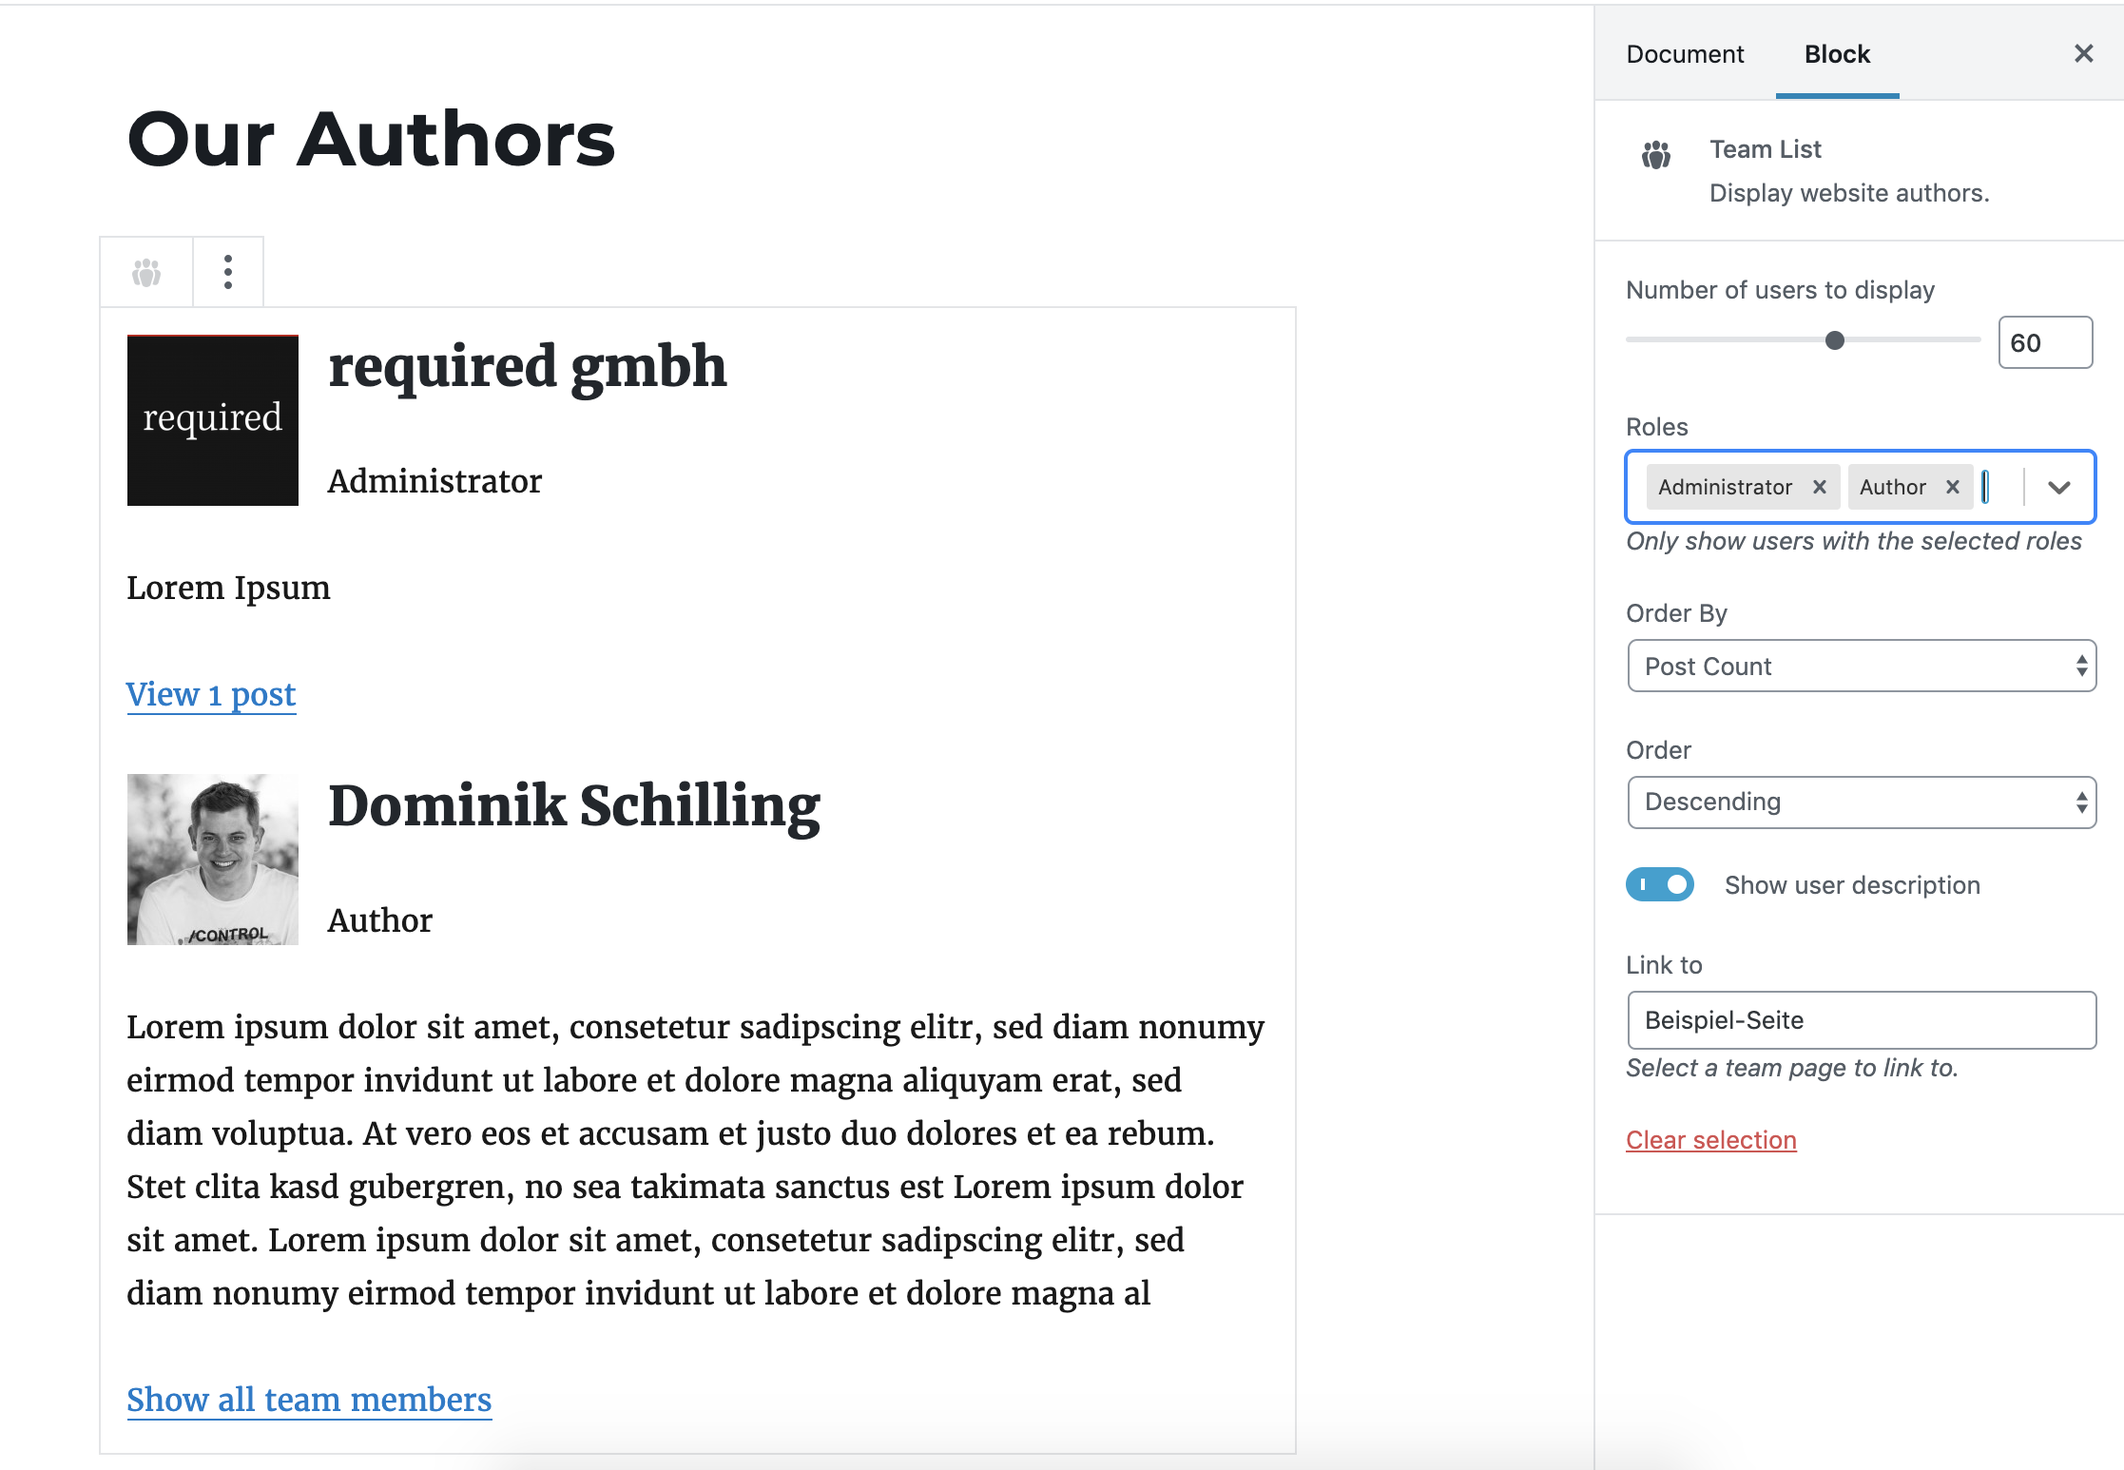
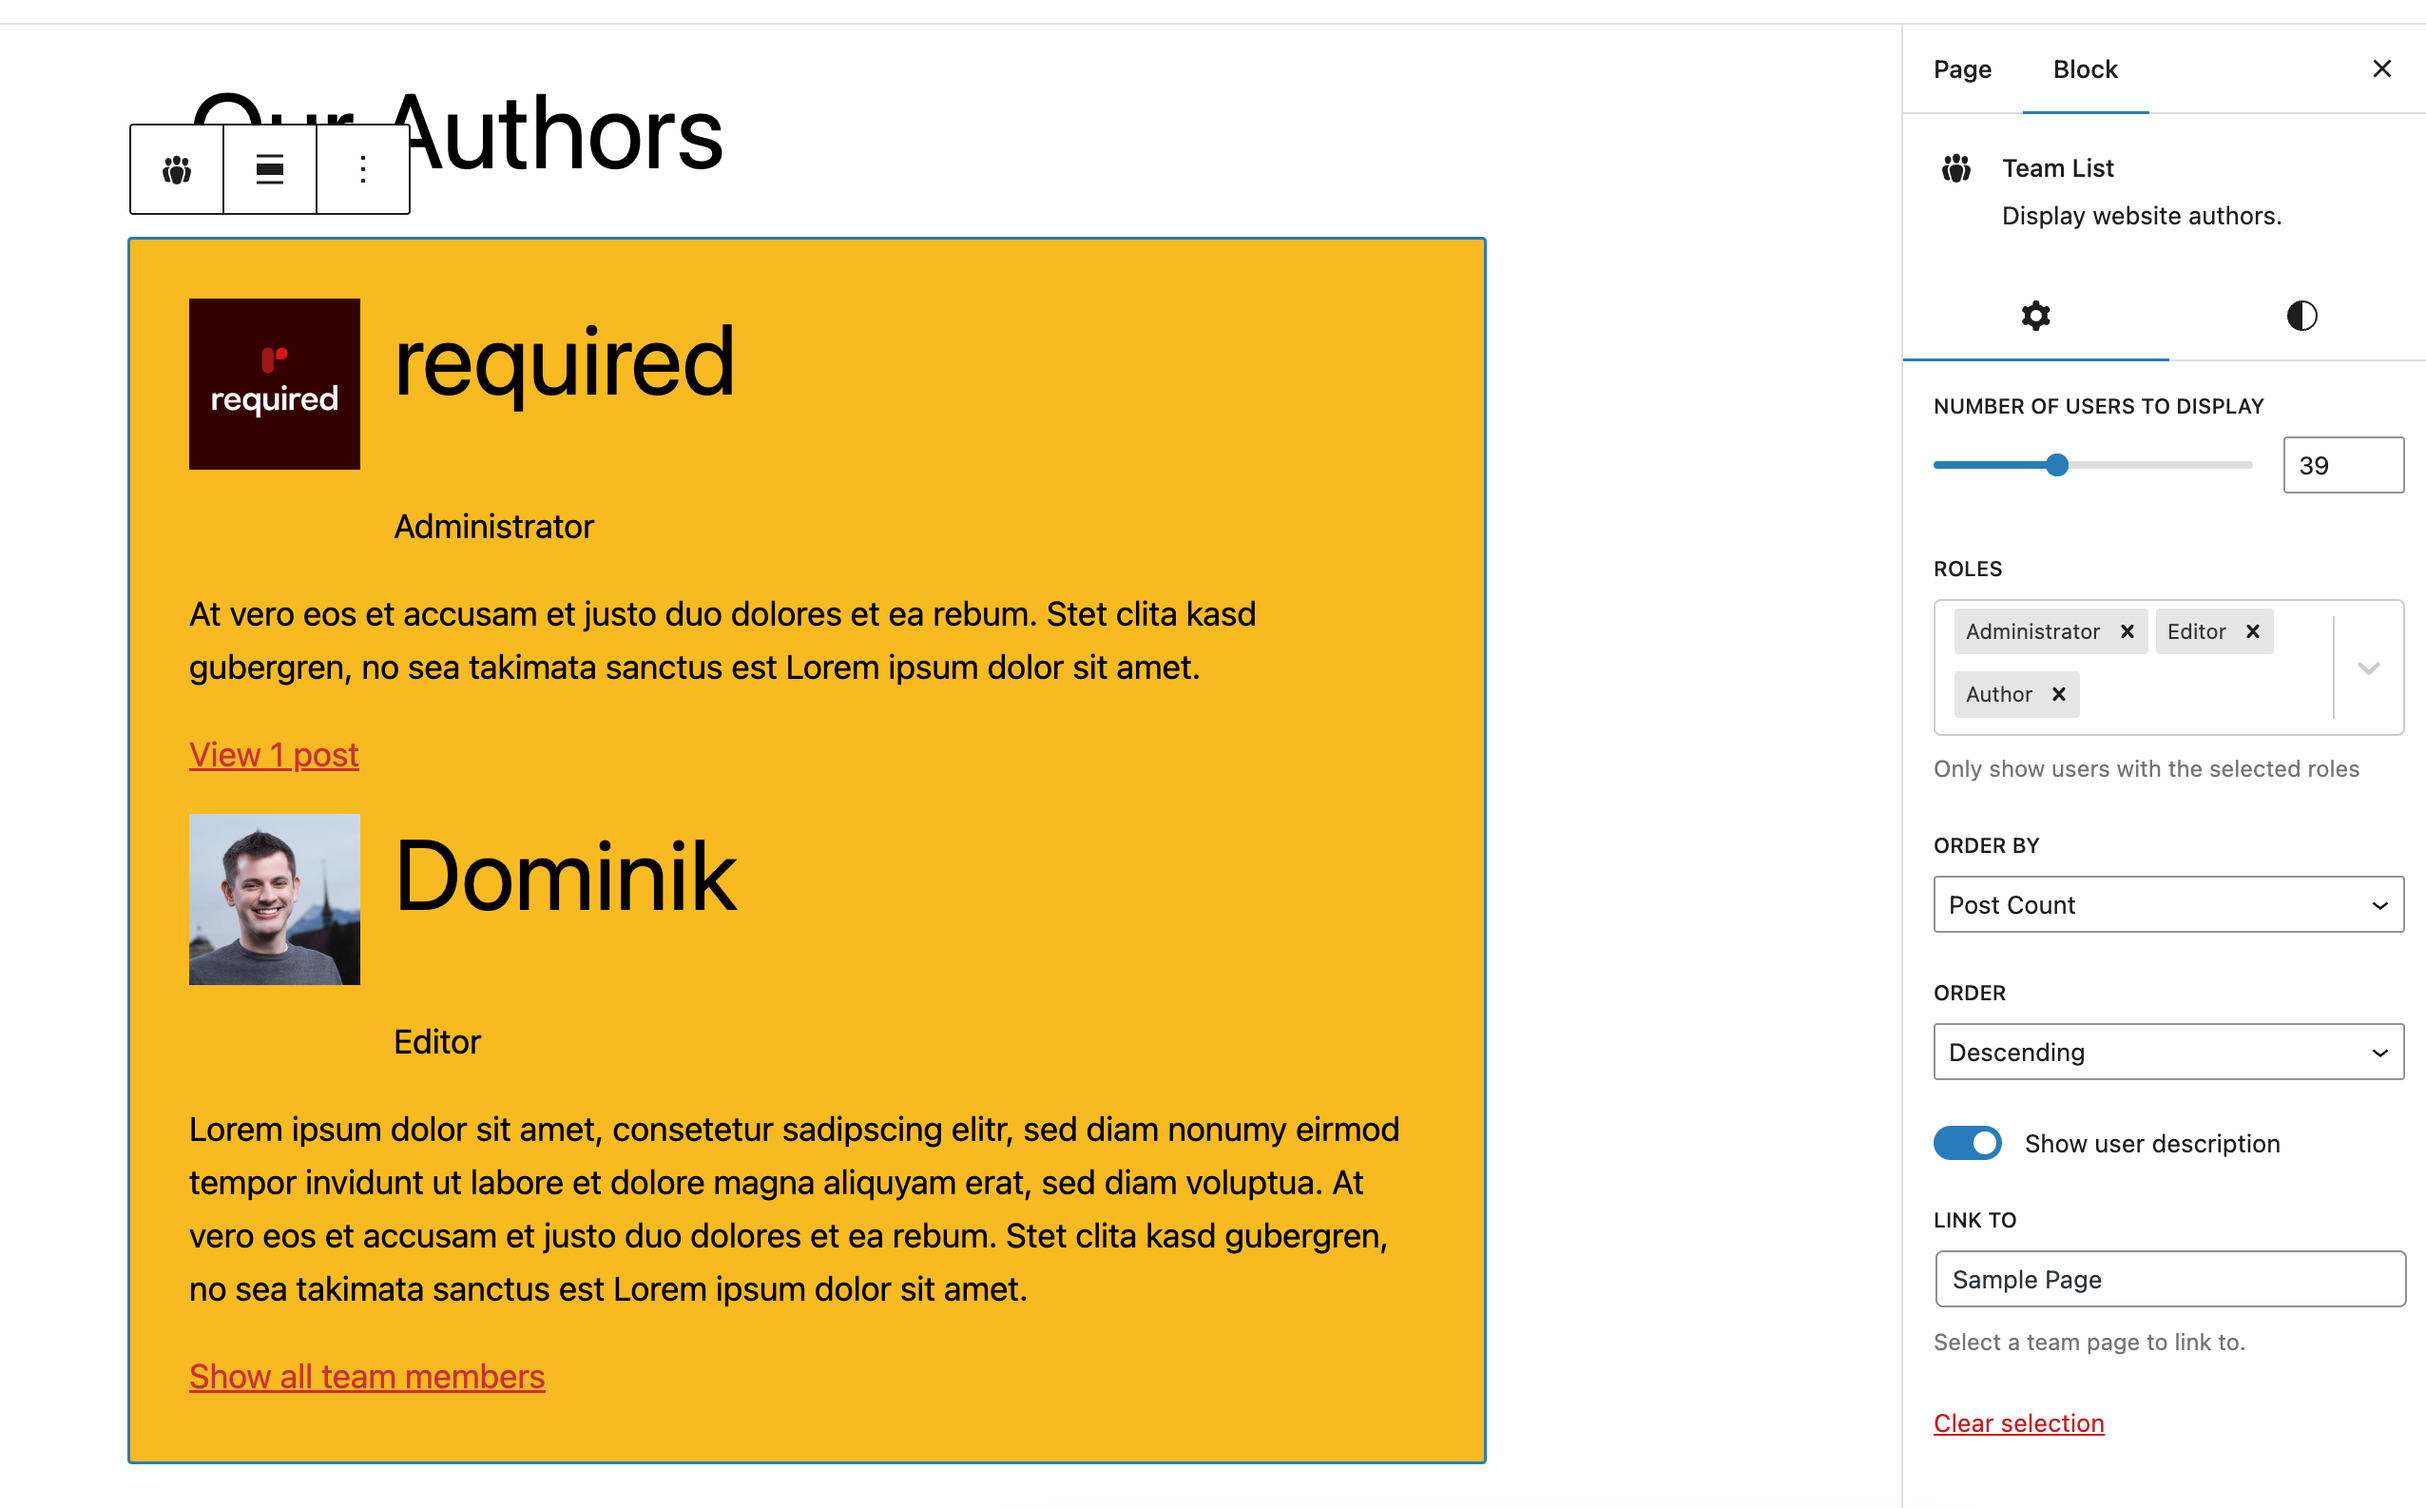
Update screenshot for block

diff --git a/README.md b/README.md
@@ -74,7 +74,7 @@ Want do display the team members in your sidebar? Use the built-in WordPress wid
 
 ### How do I contribute to Team List? ###
 
-Easy! You can report bugs, with reproduction steps, or post patches on [GitHub](https://github.com/wearerequired/rplus-wp-team-list).
+Easy! You can report bugs, with reproduction steps, or post patches on [GitHub](https://github.com/wearerequired/wp-team-list).
 
 ### What kind of filters / hooks are available? ###
 * `wp_team_list_user_role` - Filter the user role displayed in the team list.
@@ -88,7 +88,7 @@ Easy! You can report bugs, with reproduction steps, or post patches on [GitHub](
 
 1. This is how your team list can look like with some additional CSS.
 2. The plugin only provides limited styling. It's up to you to adjust it.
-3. The block in the block editor with its settings.
+3. The block in the block editor with its settings and custom styling.
 4. The configuration options of the built-in widget.
 
 ## Changelog ##
